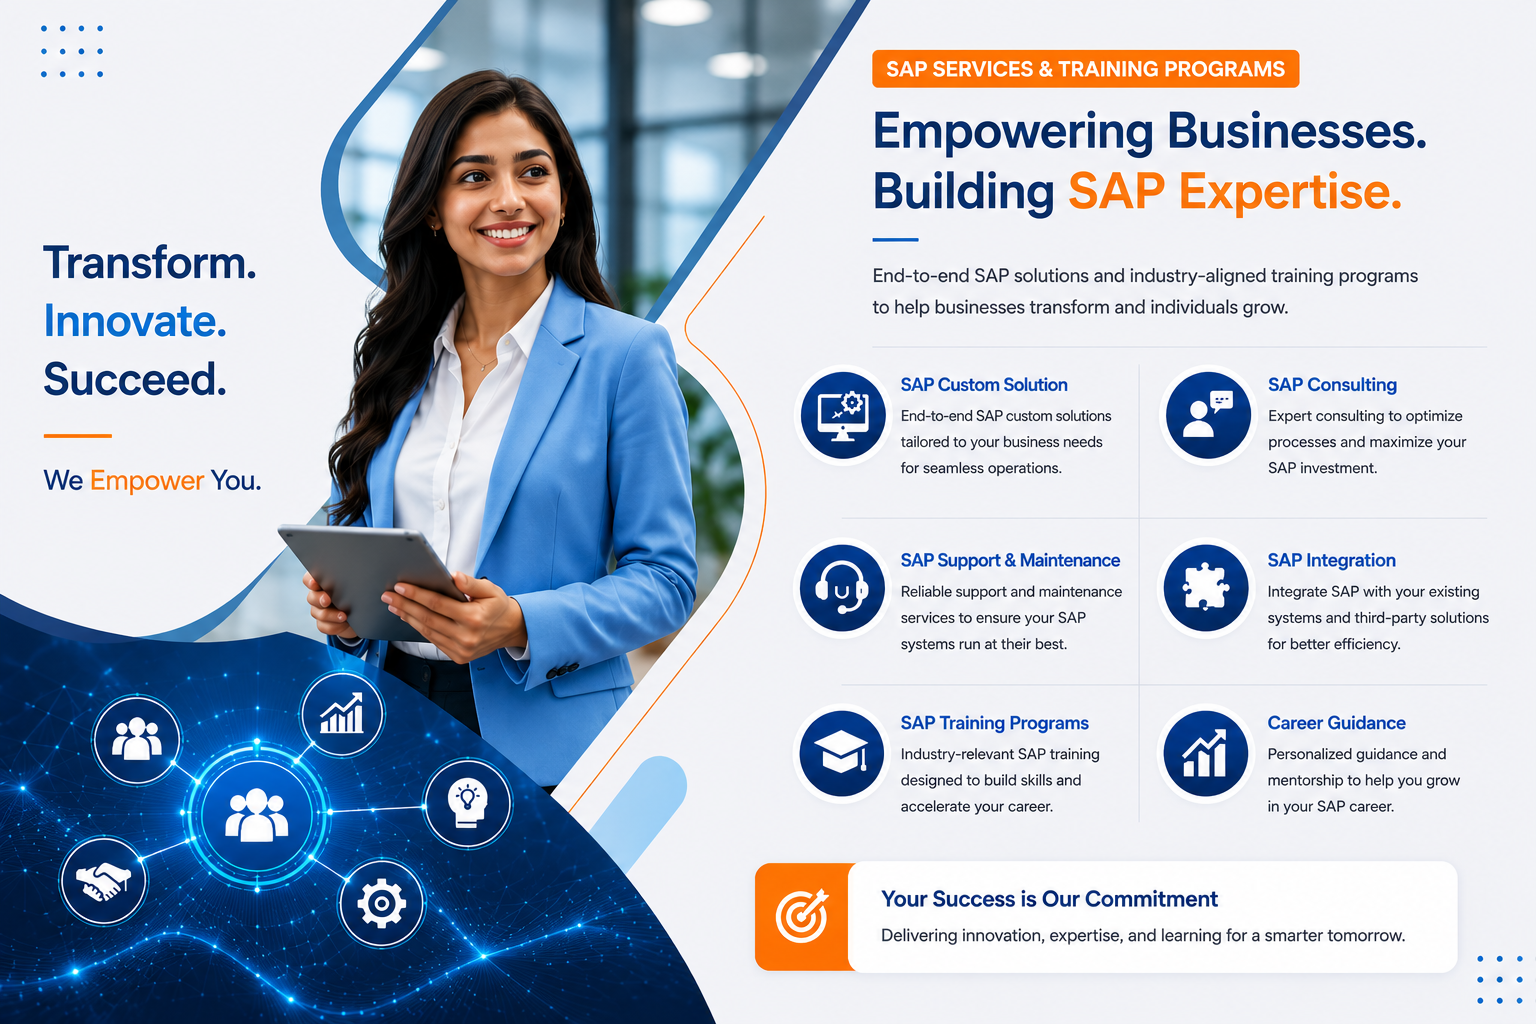
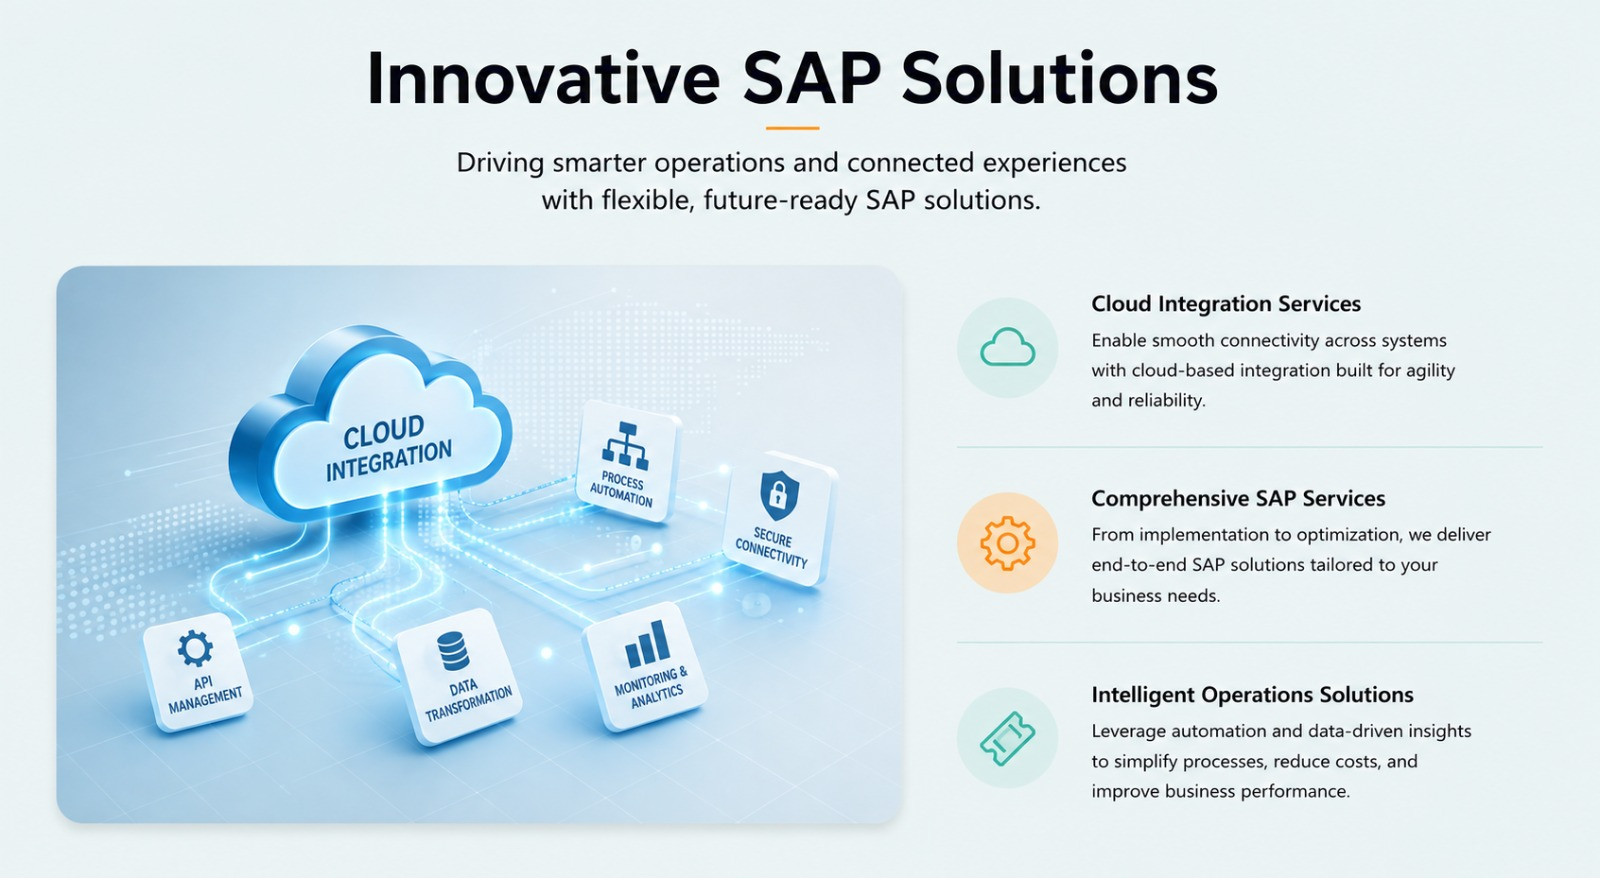
push to main

diff --git a/components/service/heroSection.jsx b/components/service/heroSection.jsx
@@ -50,18 +50,6 @@ From initial strategy and deployment to ongoing optimization and support, we ens
 At Zisan Tech Solutions, we are committed to delivering reliable, high-performance solutions that empower organizations to innovate, adapt, and lead in a rapidly evolving digital landscape.
 </p>
 
-
-<p className="text-black leading-relaxed mb-8 text-justify">
-Zisan Tech Solutions is a forward-thinking SAP and IT consulting company committed to helping businesses evolve in a digitally driven world.
-
-We deliver tailored SAP solutions that simplify complex operations, enhance productivity, and create meaningful business outcomes through smart technology.
-
-By combining technical expertise with a deep understanding of business needs, we build scalable systems that adapt, grow, and integrate seamlessly.
-
-Our end-to-end approach covers everything from strategic planning and implementation to ongoing support, ensuring consistent performance and long-term value.
-
-At Zisan Tech Solutions, we empower organizations to innovate confidently, optimize their processes, and stay ahead in an ever-changing technological landscape.
-</p>
   </motion.div>
 
   {/* RIGHT IMAGE */}
@@ -77,7 +65,7 @@ At Zisan Tech Solutions, we empower organizations to innovate confidently, optim
     {/* Image */}
     <div className="relative rounded-3xl overflow-hidden z-0 w-full">
       <Image
-        src="/images/services/handshake.jpg"
+        src="/images/We create best solution for you- service page images.png"
         alt="Handshake"
         width={600}
         height={500}

diff --git a/components/SuccessSection.jsx b/components/SuccessSection.jsx
@@ -70,7 +70,7 @@ export default function SuccessSection() {
             className="relative w-full h-[260px] md:h-[320px] rounded-2xl overflow-hidden shadow-lg"
           >
             <Image
-              src="/images/work.jpg"
+              src="/images/our work is for your success zisan tech solutions.png"
               alt="Work"
               fill
               className="object-cover"
@@ -90,7 +90,7 @@ export default function SuccessSection() {
           >
             <div className="relative rounded-3xl overflow-hidden shadow-xl group">
               <Image
-                src="/images/work.jpg"
+                src="/images/our work is your success 2nd image.png"
                 alt="Work process"
                 width={600}
                 height={500}

diff --git a/components/about-us/ClientSuccessSection.jsx b/components/about-us/ClientSuccessSection.jsx
@@ -4,16 +4,16 @@ import { useState, useEffect, useCallback } from "react";
 
 const slides = [
   {
-    image: "/images/about-slider1.jpg",
-    caption: "Marketing consultation with Armaz",
+    image: "/images/business_strategy.png",
+    caption: "Bussiness Strategy Session",
   },
   {
-    image: "/images/about-slider2.jpg",
-    caption: "Business strategy session",
+    image: "/images/SAP Consultation.png",
+    caption: "SAP Consultation Session",
   },
   {
-    image: "/images/about-slider3.jpg",
-    caption: "Growth planning discussion",
+    image: "/images/Growth Planning.png",
+    caption: "Growth Planning Discussion",
   },
 ];
 

diff --git a/components/Footer.jsx b/components/Footer.jsx
@@ -6,8 +6,12 @@ import Link from "next/link";
 
 export default function Footer() {
   return (
-    <footer className="w-full py-20 px-6 bg-[#0e1a4d]  text-white relative overflow-hidden">
-      
+<footer
+  className="w-full py-20 px-6  text-white relative overflow-hidden"
+  style={{
+    backgroundImage: "url('/images/footer-image.png')",
+  }}
+>      
       {/* Background world map */}
       <div className="absolute inset-0 opacity-10 bg-[url('/images/world-map.png')] bg-center bg-no-repeat bg-cover"></div>
 

diff --git a/components/DigitalTransformationSection.jsx b/components/DigitalTransformationSection.jsx
@@ -92,7 +92,7 @@ export default function DigitalTransformationSection() {
             <div className="absolute inset-0 bg-teal-400/20 blur-3xl rounded-full"></div>
 
             <Image
-              src="/images/digital_transformation.png"
+              src="/images/Start Your Digital Transformation Journey with Zisan Tech Solutions-images.png"
               alt="Digital Transformation"
               fill
               className="object-contain relative z-10 drop-shadow-2xl"

diff --git a/components/StorySection.jsx b/components/StorySection.jsx
@@ -95,7 +95,7 @@ export default function StorySection() {
           >
             <div className="rounded-2xl overflow-hidden">
               <Image
-                src="/images/team.jpg"
+                src="/images/know-our-story-zisan-tech-solutions.jpeg"
                 alt="Team"
                 width={600}
                 height={400}

diff --git a/components/about-us/AboutHeroImage.jsx b/components/about-us/AboutHeroImage.jsx
@@ -36,7 +36,7 @@ export default function AboutHeroImage() {
   return (
     <section className="relative min-h-[620px] w-full overflow-hidden">
       <Image
-        src="/images/about-hero-section.png"
+        src="/images/About _ Header Page.png"
         alt="Zisan Tech Solutions team"
         fill
         priority

diff --git a/components/HeroSection.js b/components/HeroSection.js
@@ -6,7 +6,7 @@ return (
 
 {/* HERO IMAGE */}
 <img
-  src="/images/gtxinfotech-heroimage.jpeg"
+  src="/images/Home _ Header Page.png"
   alt="Hero"
   className="absolute inset-0 w-full h-full object-cover"
 />
